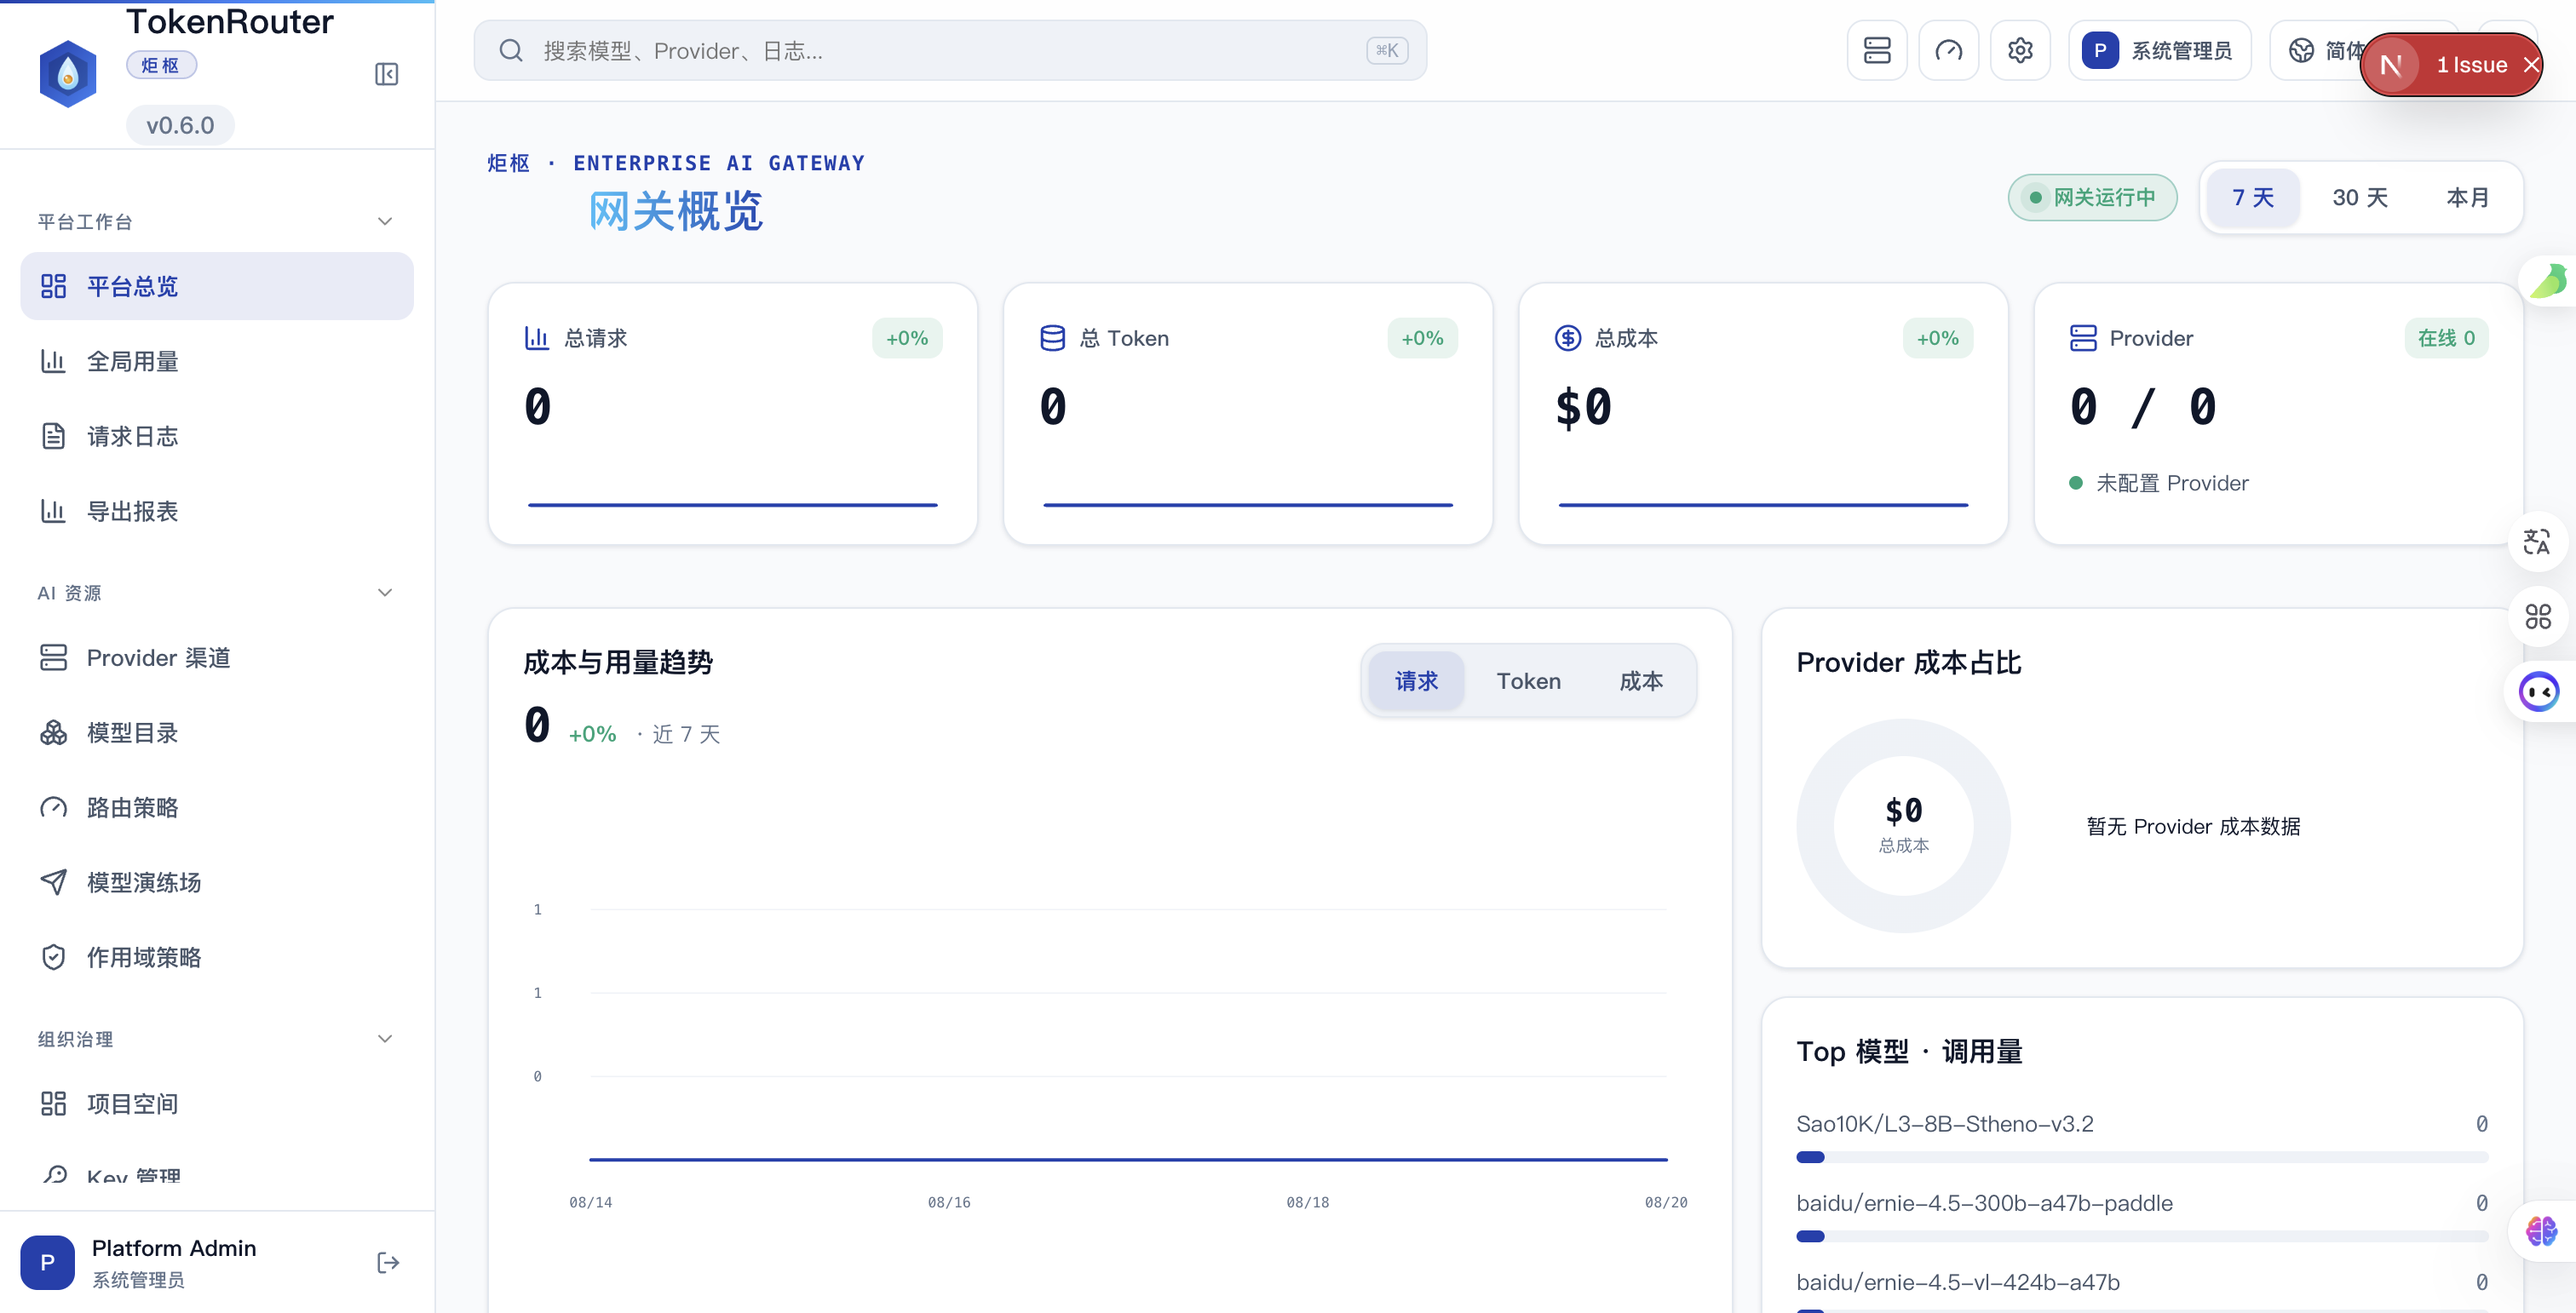
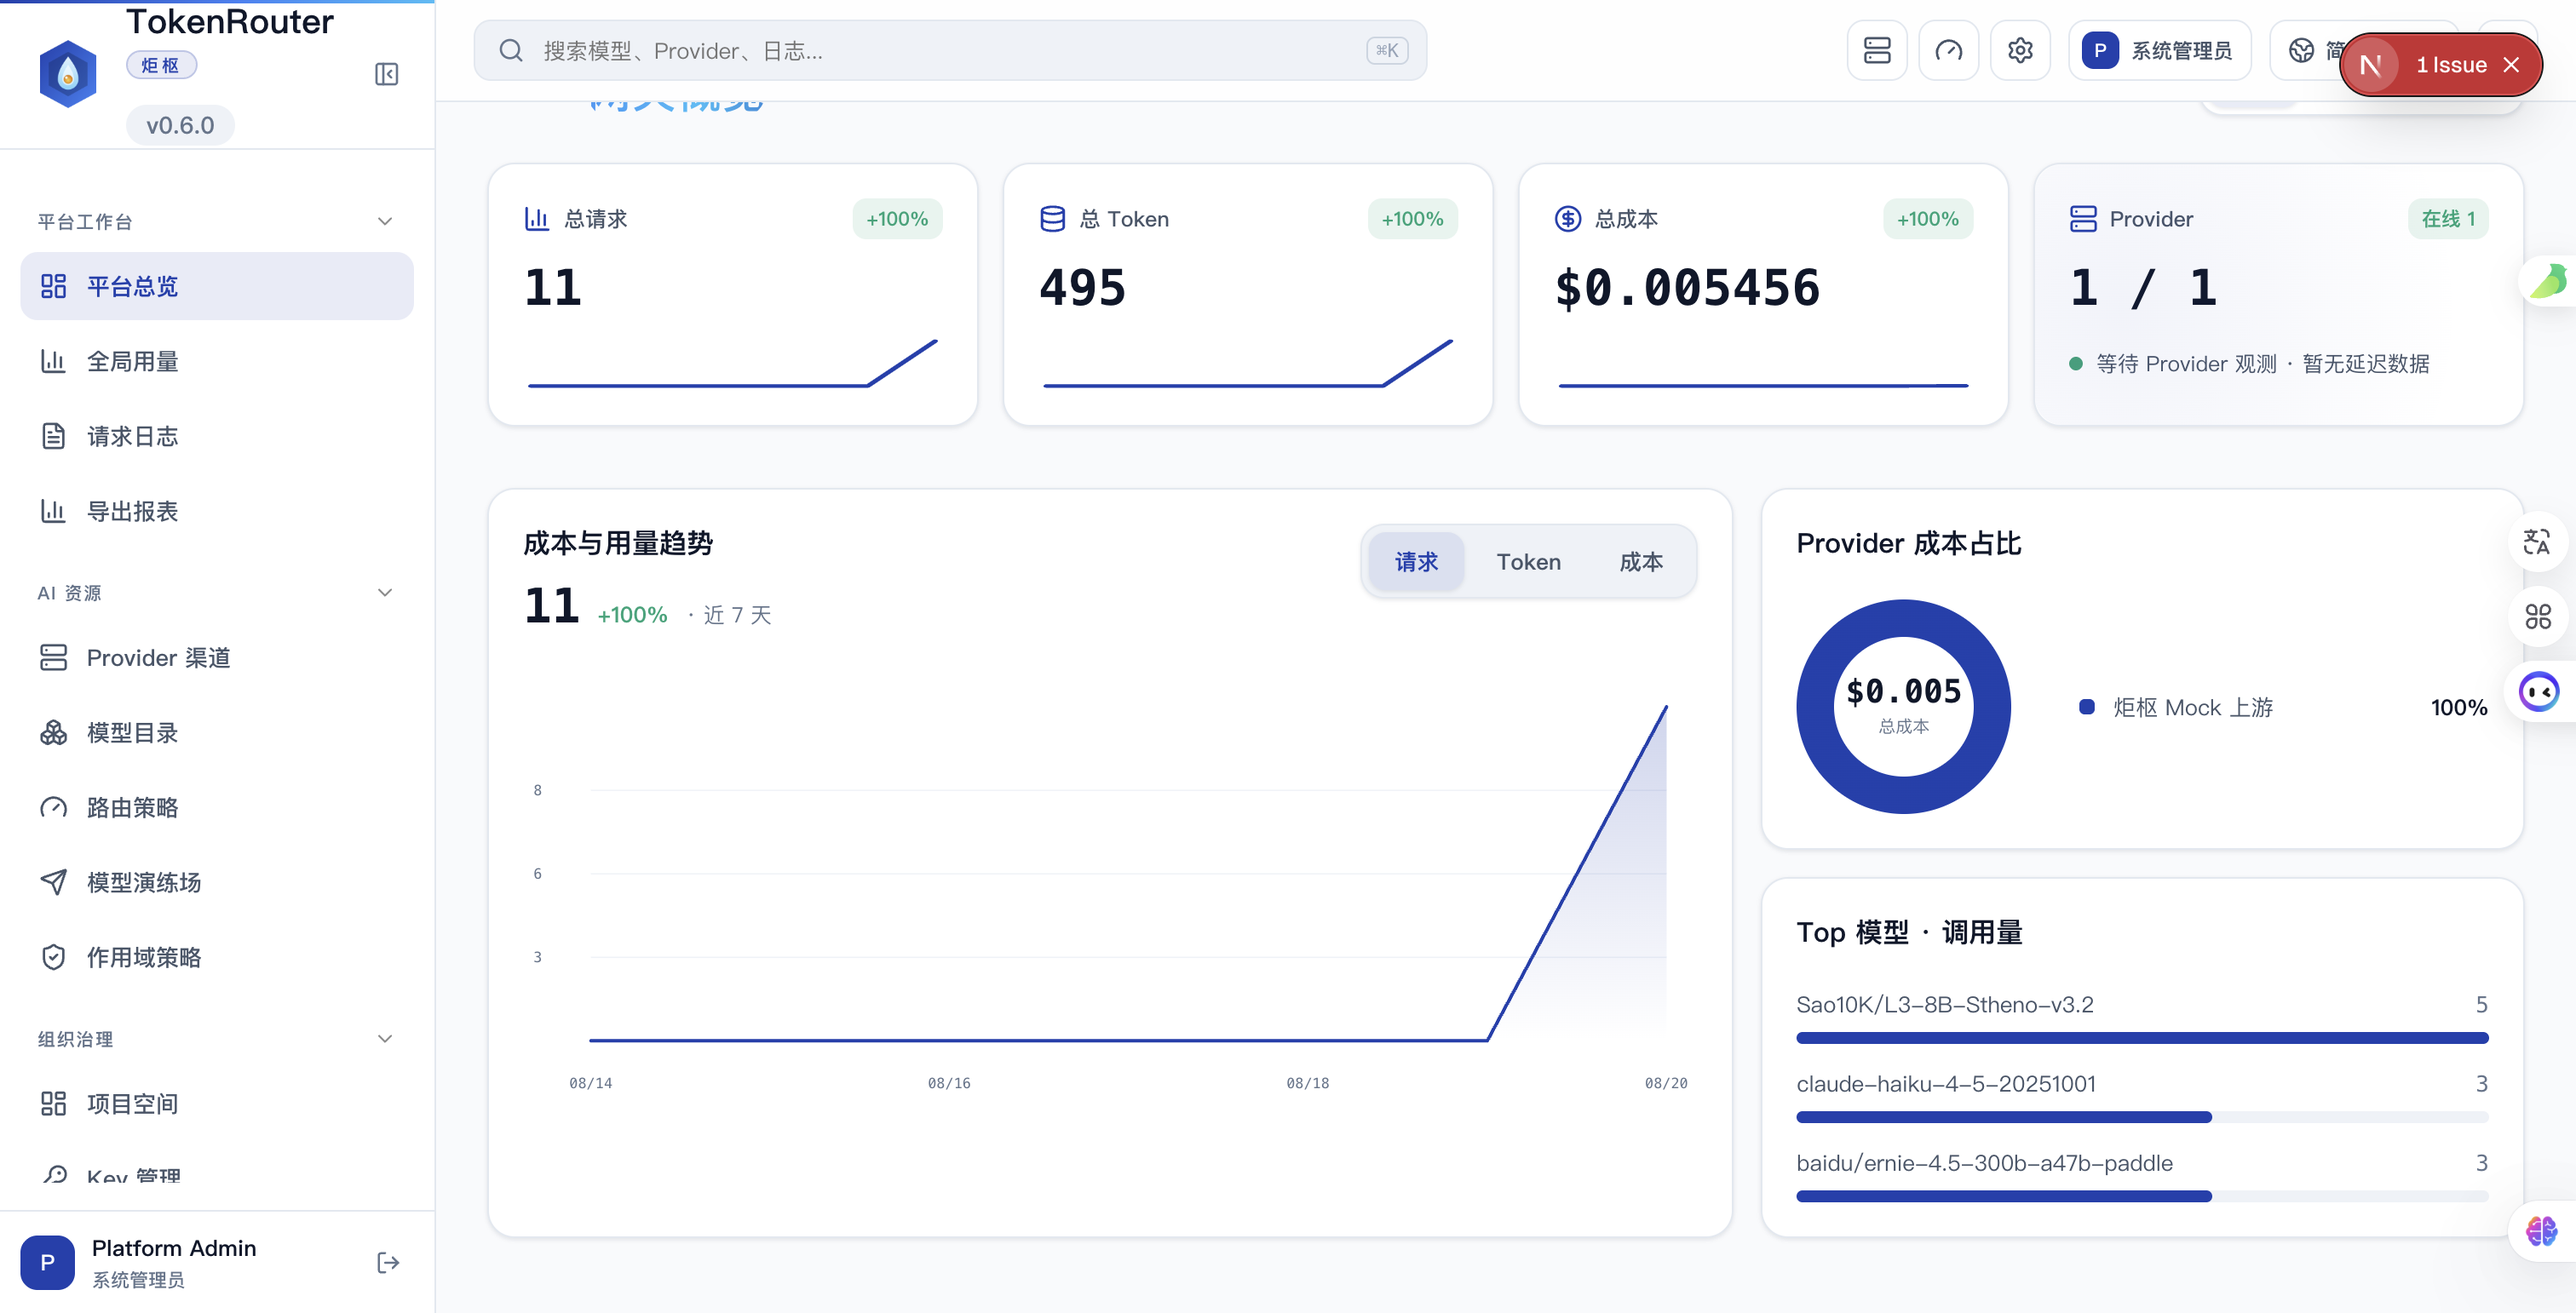
Light up real gateway data via mock LLM + PageHeader hero polish
- tools/mock-llm/server.js: 零依赖 OpenAI 兼容 mock（流式末 chunk 带 usage，SSE+JSON）
- 端到端数据链路打通：Provider 炬枢 Mock 上游 (openai_compatible, loopback 放行) → 导入 3 上游模型 → 3 条活动路由 → 项目 API Key → 9 条 /v1 网关请求（含流式）+ 11 请求/495 tokens//bin/bash.0055 入账
- 总览实测：KPI 11/495//bin/bash.005456/1:1，趋势图 08/20 尖峰，Top 模型榜 5/3/3，Provider 成本占比 100%
- PageHeader：面包屑当前页 15px/760 主标题化、品牌段 #1E40AF、上下文胶囊数字 Fira Code、scope 胶囊品牌底色
- 门禁全绿：build/tsc/eslint/126 tests/translations/source-lines

diff --git a/tools/mock-llm/server.js b/tools/mock-llm/server.js
@@ -1,0 +1,102 @@
+// TokenRouter mock OpenAI-compatible upstream — zero dependency.
+// 关键：流式末 chunk 必须带 usage 字段，网关才会写 UsageLog。
+const http = require("http");
+const port = process.env.PORT || 9999;
+
+http
+  .createServer((req, res) => {
+    if (req.method === "POST" && req.url.startsWith("/v1/chat/completions")) {
+      let body = "";
+      req.on("data", (c) => (body += c));
+      req.on("end", () => {
+        let parsed = {};
+        try {
+          parsed = JSON.parse(body);
+        } catch {}
+        const last = (parsed.messages || []).slice(-1)[0];
+        const prompt = (last && last.content) || "hi";
+        const promptTokens = Math.max(4, Math.ceil(String(prompt).length / 3));
+        const completionTokens = 8 + Math.floor(Math.random() * 40);
+        const model = parsed.model || "tr-mock-1";
+        const created = Math.floor(Date.now() / 1000);
+
+        if (parsed.stream === true) {
+          res.writeHead(200, {
+            "content-type": "text/event-stream",
+            "cache-control": "no-cache",
+            connection: "keep-alive",
+          });
+          const words = ["TokenRouter", "炬枢", "mock", "upstream", "gateway", "routed", "✅"].slice(
+            0,
+            Math.max(1, Math.ceil(completionTokens / 12)),
+          );
+          words.forEach((w) => {
+            res.write(
+              `data: ${JSON.stringify({
+                id: "chatcmpl-tr-mock",
+                object: "chat.completion.chunk",
+                created,
+                model,
+                choices: [{ index: 0, delta: { content: w + " " }, finish_reason: null }],
+              })}\n\n`,
+            );
+          });
+          res.write(
+            `data: ${JSON.stringify({
+              id: "chatcmpl-tr-mock",
+              object: "chat.completion.chunk",
+              created,
+              model,
+              choices: [{ index: 0, delta: {}, finish_reason: "stop" }],
+              usage: {
+                prompt_tokens: promptTokens,
+                completion_tokens: completionTokens,
+                total_tokens: promptTokens + completionTokens,
+              },
+            })}\n\n`,
+          );
+          res.write("data: [DONE]\n\n");
+          res.end();
+          return;
+        }
+
+        res.writeHead(200, { "content-type": "application/json" });
+        res.end(
+          JSON.stringify({
+            id: "chatcmpl-tr-mock",
+            object: "chat.completion",
+            created,
+            model,
+            choices: [
+              {
+                index: 0,
+                message: { role: "assistant", content: "TokenRouter 炬枢 mock upstream responding." },
+                finish_reason: "stop",
+              },
+            ],
+            usage: {
+              prompt_tokens: promptTokens,
+              completion_tokens: completionTokens,
+              total_tokens: promptTokens + completionTokens,
+            },
+          }),
+        );
+      });
+      return;
+    }
+
+    if (req.method === "GET" && req.url.startsWith("/v1/models")) {
+      res.writeHead(200, { "content-type": "application/json" });
+      res.end(
+        JSON.stringify({
+          object: "list",
+          data: [{ id: "tr-mock-1", object: "model", owned_by: "tokenrouter" }],
+        }),
+      );
+      return;
+    }
+
+    res.writeHead(404, { "content-type": "text/plain" });
+    res.end("not found");
+  })
+  .listen(port, () => console.log(`mock LLM upstream listening on :${port}`));

diff --git a/frontend/app/styles/redesign/tokenrouter.css b/frontend/app/styles/redesign/tokenrouter.css
@@ -182,6 +182,26 @@
   font-weight: 760;
 }
 
+/* 面包屑当前页：强调为页面主标题 */
+.page-breadcrumb .current {
+  color: var(--ink);
+  font-size: 15px;
+  font-weight: 760;
+  letter-spacing: 0.01em;
+}
+
+/* 上下文胶囊：数值等宽 + 强调 */
+.page-context-chip strong {
+  font-family: var(--font-mono);
+  font-variant-numeric: tabular-nums;
+  letter-spacing: 0.02em;
+}
+
+.scope-chip {
+  background: var(--accent-weak);
+  border-color: color-mix(in srgb, var(--accent) 22%, transparent);
+}
+
 /* 概览面板内容入场动画容器 */
 .overview-panel-motion {
   display: contents;
